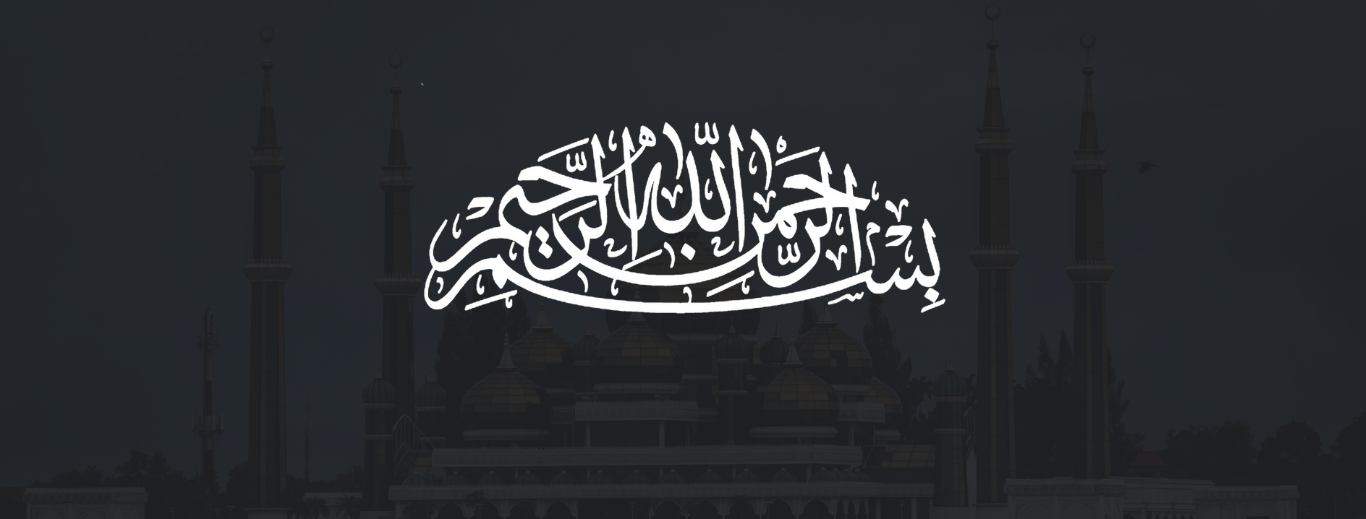
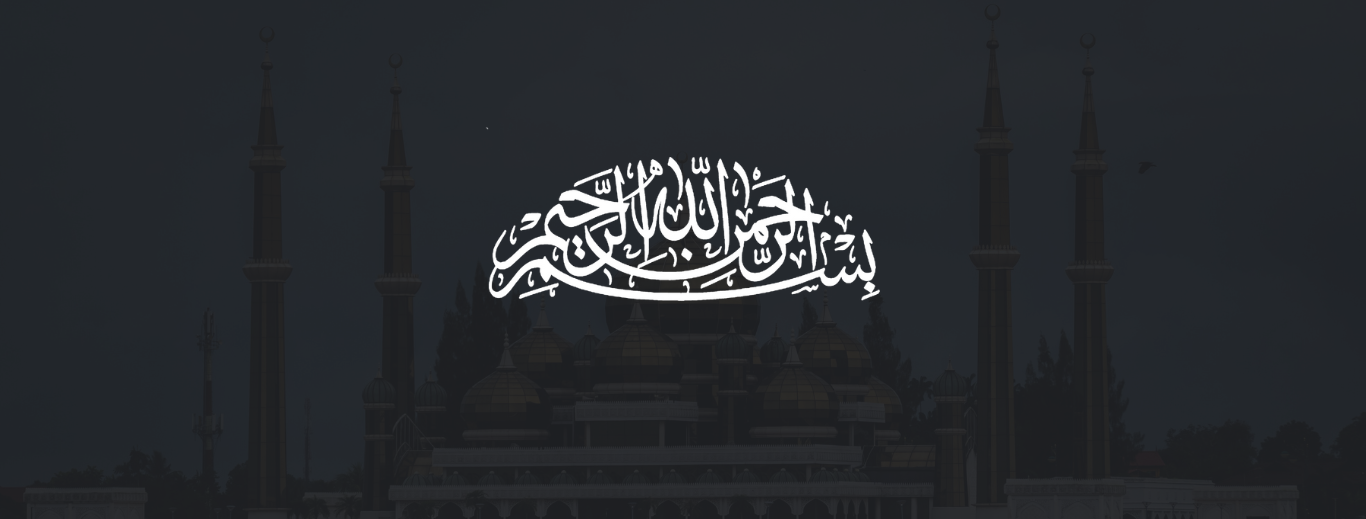
Added HomePageInput

Changed region(s): [[0.3075, 0.2466, 0.7072, 0.6166]]

diff --git a/frontend/src/components/HomePageInput.js b/frontend/src/components/HomePageInput.js
@@ -1,0 +1,42 @@
+import React from 'react'
+import {
+    FormControl,
+    Box,
+    Input
+} from '@chakra-ui/react'
+import HomeBackgroundImg from "../images/bismillah.png"
+import { ArrowForwardIcon } from '@chakra-ui/icons'
+
+
+const HomePageInput = () => {
+    return (
+        <>
+            <Box
+                // height={"519px"}
+                bgImage={HomeBackgroundImg}
+                backgroundSize={"cover"}
+                // backgroundAttachment={"fixed"}
+                backgroundPosition={"center"}
+                backgroundRepeat={"no-repeat"}
+                pl={{ base: "60px", lg: "274px" }}
+                pr={{ base: "60px", lg: "274px" }}
+                pt={{ base: "190px", md: "250px", lg: "368px" }}
+                pb={{ base: "30px", md: "40px", lg: "50px" }}
+                objectFit={"cover"}
+            >
+                <FormControl>
+                    <Input
+                        // width={"818px"}
+                        color={"black"}
+                        bgColor={"#D9D9D9"}
+                        placeholder={"What do you want to read ?"}
+                        _placeholder={{ color: 'black' }}
+                        type='text'
+                    />
+                </FormControl>
+            </Box>
+        </>
+    )
+}
+
+export default HomePageInput

diff --git a/frontend/src/pages/HomePage.js b/frontend/src/pages/HomePage.js
@@ -1,18 +1,10 @@
-import { Box } from '@chakra-ui/react'
 import React from 'react'
-// import homeImg from "../images/bismillah.png"
+import HomePageInput from '../components/HomePageInput'
 
 const HomePage = () => {
   return (
     <>
-    Header
-      {/* <Box
-      top={0}
-      height={"519px"}
-      bgImage={homeImg}
-      >
-      Hello
-      </Box> */}
+      <HomePageInput />
     </>
   )
 }

diff --git a/frontend/src/index.css b/frontend/src/index.css
@@ -12,6 +12,15 @@ code {
     monospace;
 }
 
+::placeholder {
+  color: rgb(0, 0, 0);
+  opacity: 1; /* Firefox */
+}
+
+::-ms-input-placeholder { /* Edge 12-18 */
+  color: rgb(0, 0, 0);
+}
+
 
 /* Small devices (landscape phones) */
 @media (max-width: 576px) {
